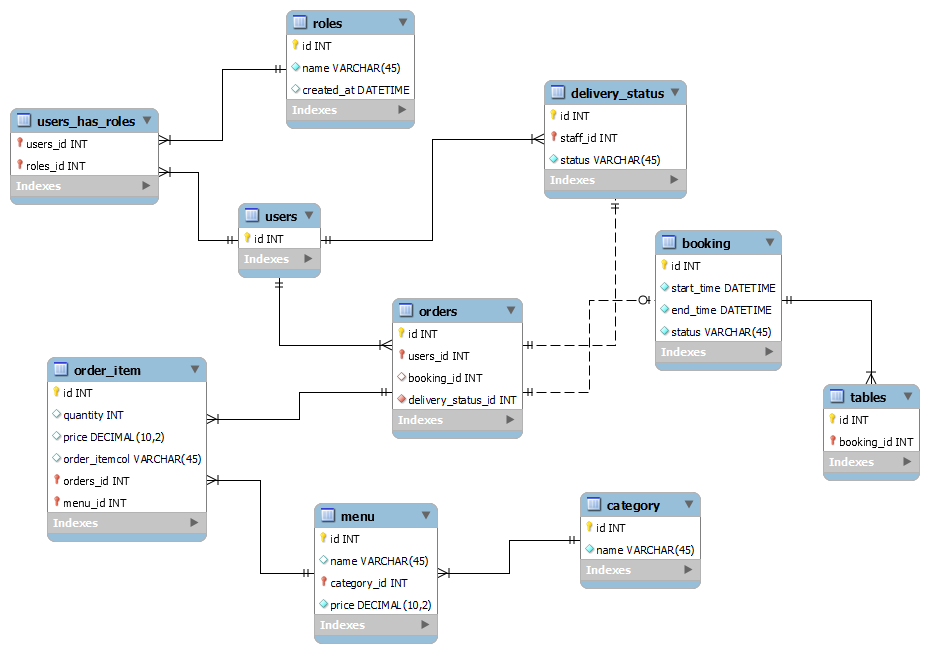
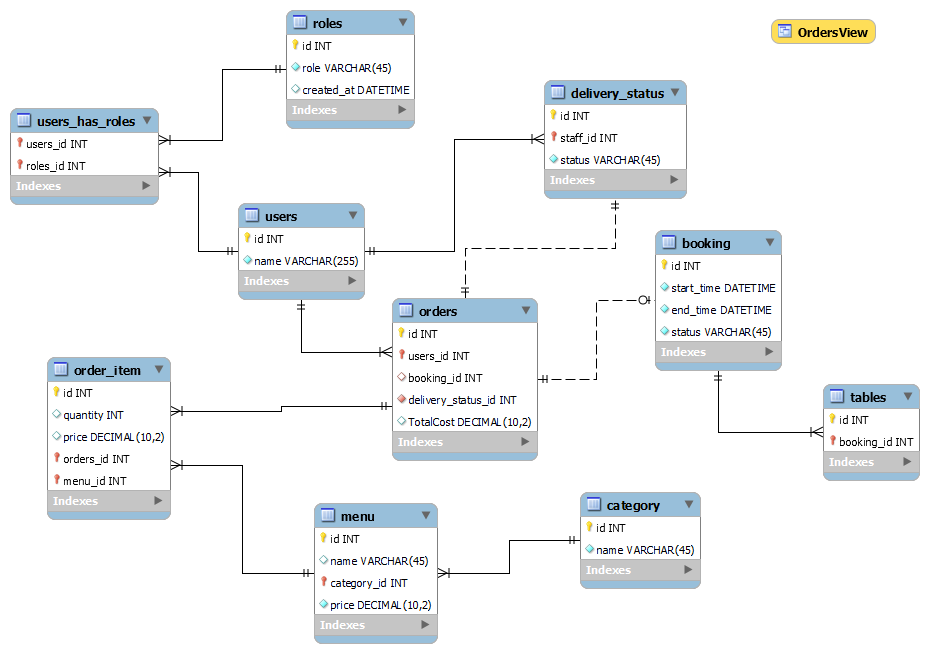
Removed some bugs and created views and procedures.

diff --git a/README.md b/README.md
@@ -1,0 +1,5 @@
+Week 1 work is in this or main folder.
+Every other tasks are in their separate folders according to their week > Exercise# > Task
+
+I designed the database to scale and to not have any conflict, i designed it as a real one.
+It may looks complex but in real life databases are complex but our task is made easy by using ORMs.
